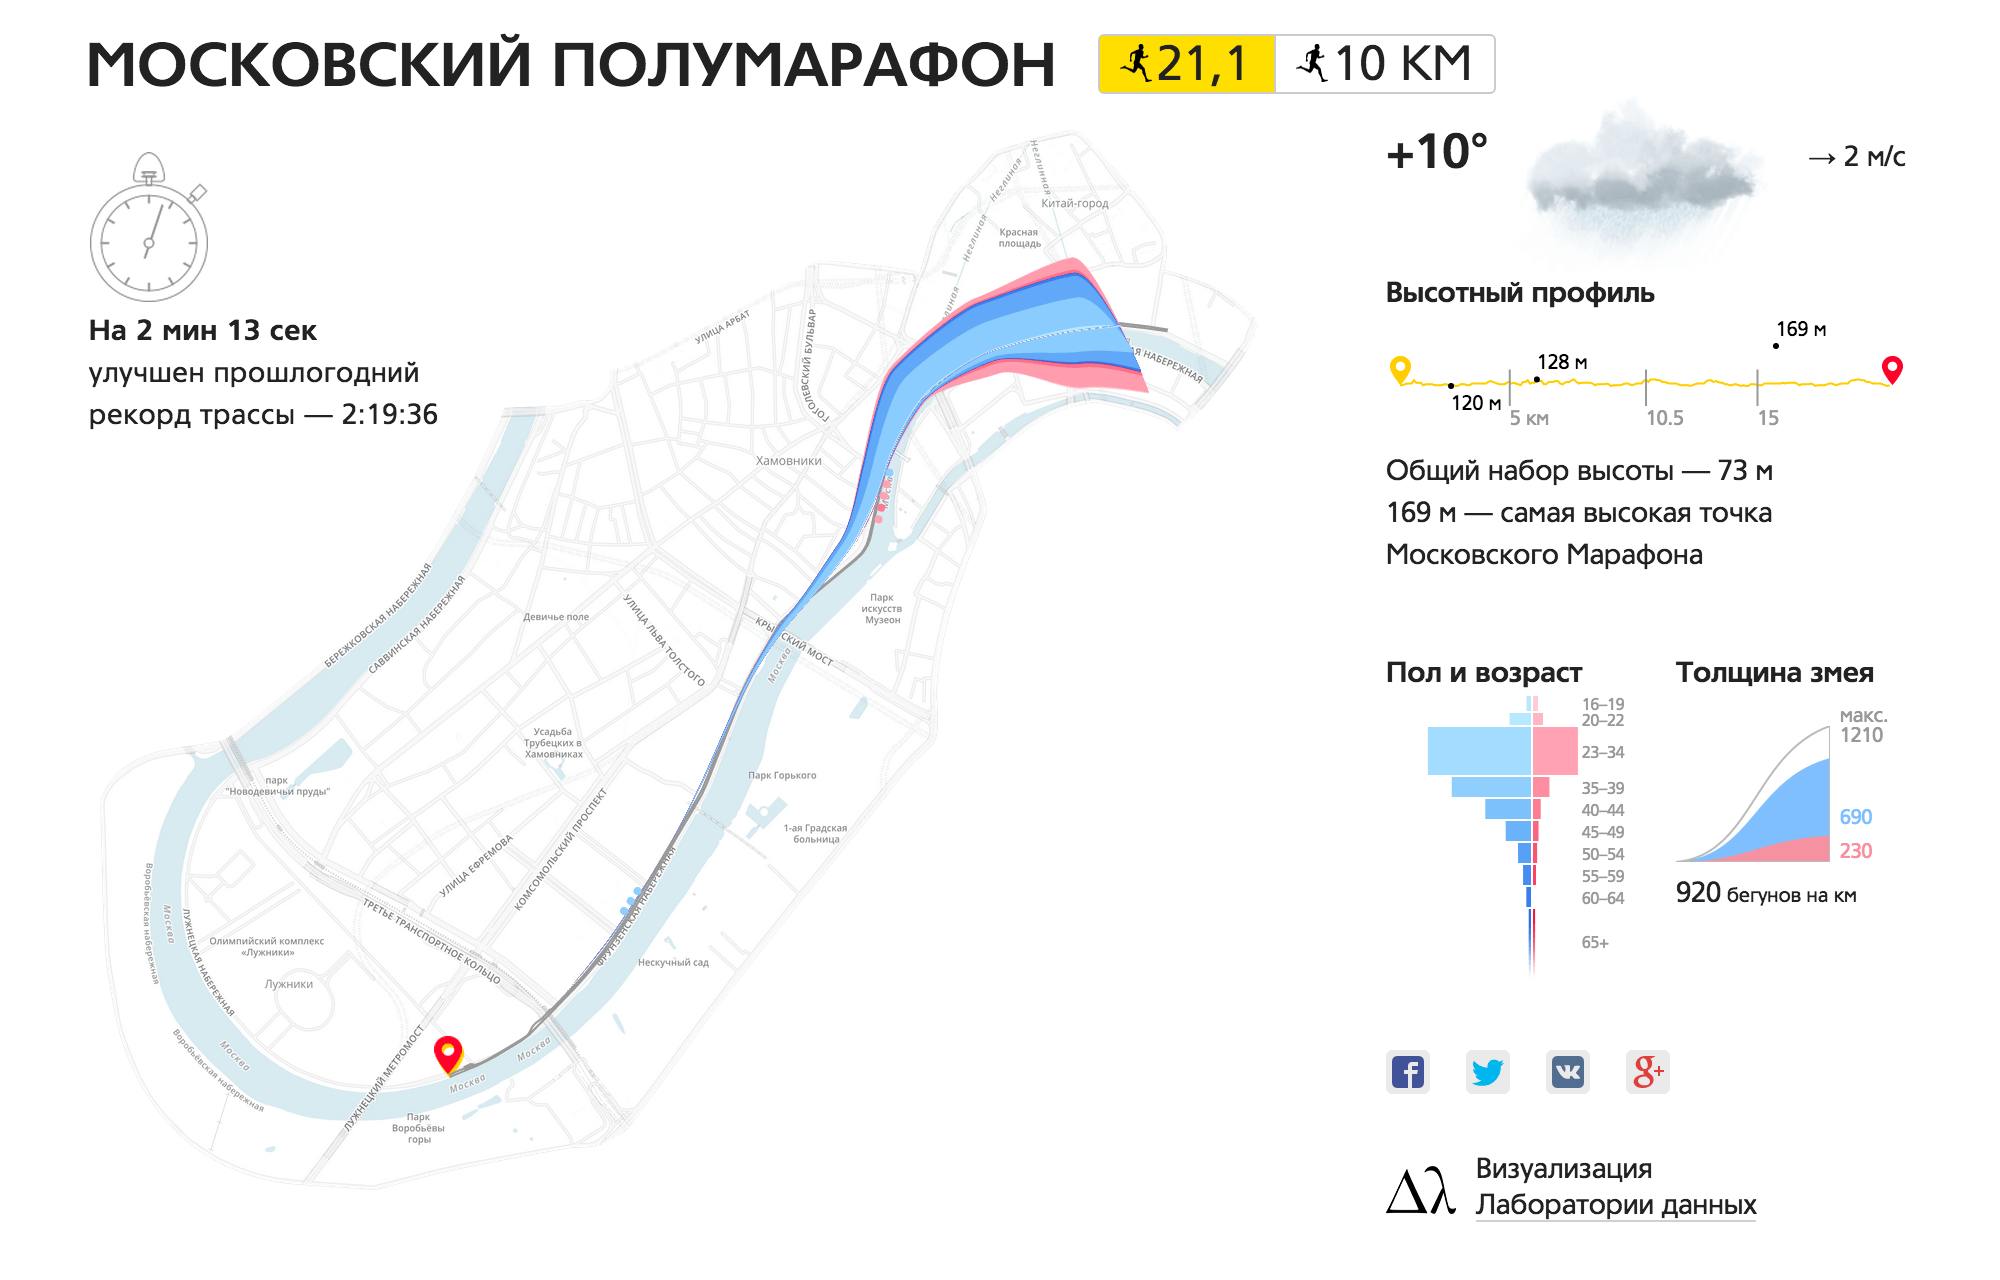
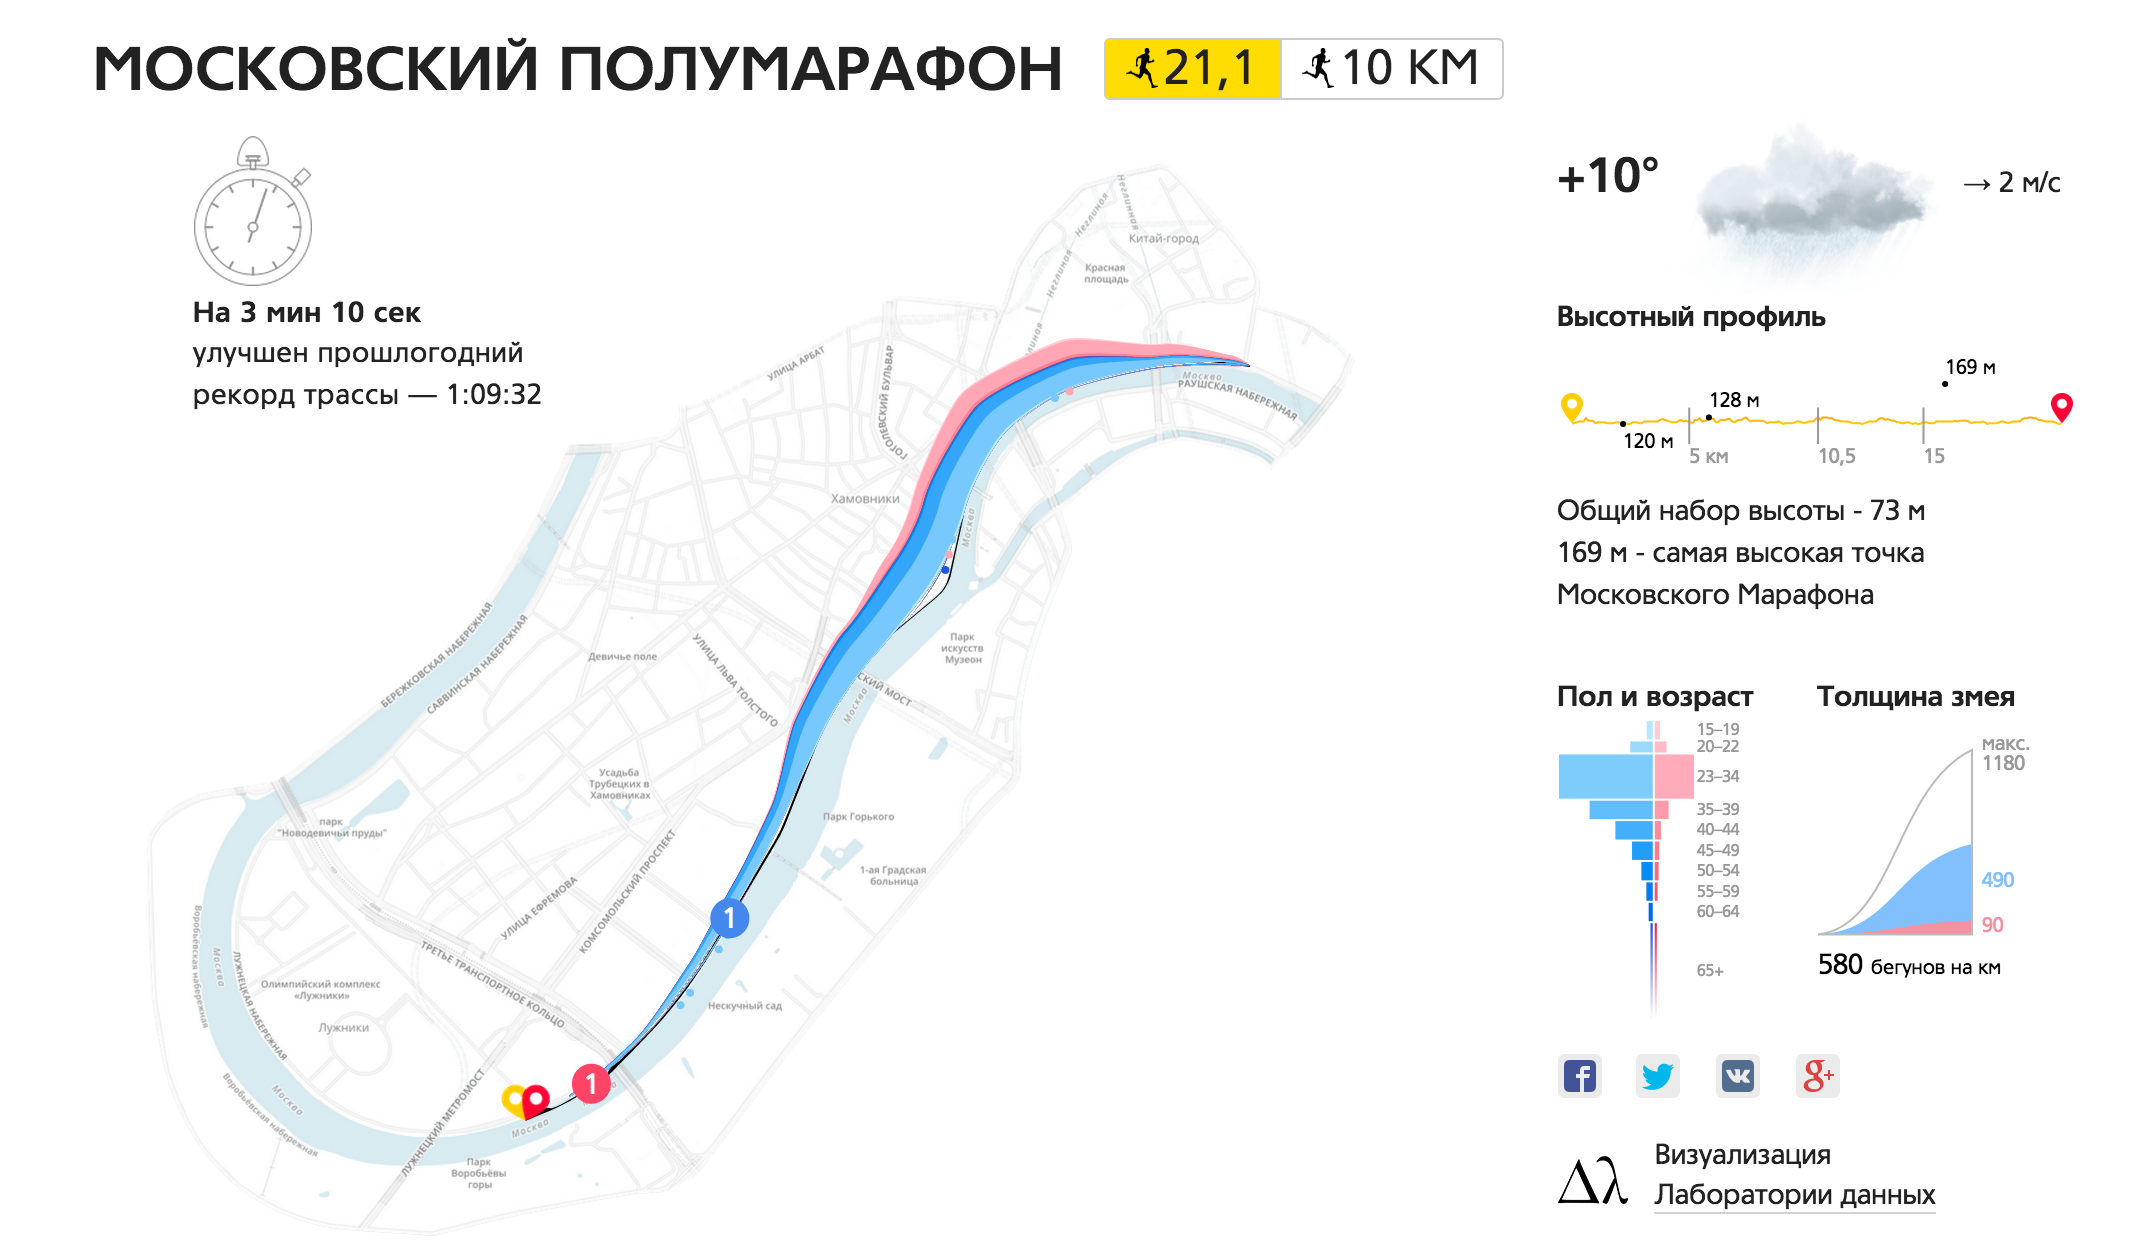
stick snake to track turn

diff --git a/src/templates/directives/altitudeLegend.html b/src/templates/directives/altitudeLegend.html
@@ -38,18 +38,18 @@
         <text
             data-ng-attr-x="{{altGraph.max.x}}"
             data-ng-attr-y="{{altGraph.max.y - 5}}"
-            class="legend-altitude__min-max-text">{{altGraph.altitudes[altGraph.max.num]}}{{'METER' | translate}}
+            class="legend-altitude__min-max-text">{{altGraph.altitudes[altGraph.max.num]}} {{'METER' | translate}}
         </text>
         <text
             data-ng-attr-x="{{altGraph.min.x}}"
             data-ng-attr-y="{{altGraph.min.y + 12}}"
-            class="legend-altitude__min-max-text">{{altGraph.altitudes[altGraph.min.num]}}{{'METER' | translate}}
+            class="legend-altitude__min-max-text">{{altGraph.altitudes[altGraph.min.num]}} {{'METER' | translate}}
         </text>
         <text
             data-ng-if="altGraph.customMaxAlt"
             data-ng-attr-x="{{altGraph.customMaxAlt.x}}"
             data-ng-attr-y="{{altGraph.customMaxAlt.y - 5}}"
-            class="legend-altitude__min-max-text">{{altGraph.customMaxAlt.alt}}{{'METER' | translate}}
+            class="legend-altitude__min-max-text">{{altGraph.customMaxAlt.alt}} {{'METER' | translate}}
         </text>
         <image xlink:href="img/mark-yel.png"
                data-ng-attr-x="{{(scaleX(0) - altGraph.imgSize / 2) | preventNaN }}"

diff --git a/src/js/services/mapHelper.js b/src/js/services/mapHelper.js
@@ -1,4 +1,4 @@
-angular.module('marathon').factory('mapHelper', function (track, genderColors) {
+angular.module('marathon').factory('mapHelper', function (track, genderColors, roundTo) {
     var x_axis_points = {
         p1: {
             x: 0,
@@ -222,10 +222,20 @@ angular.module('marathon').factory('mapHelper', function (track, genderColors) {
         }));
     };
 
+    var customPieces = {
+        '21': 6270,
+        '10': 5050
+    };
+
     var getSteps = function (step, px_distance) {
         var pieces = d3.range(0, px_distance, step);
         pieces.push(px_distance);
-
+        var trackLength = track.getTrackLength();
+        var customPiece = customPieces[Math.round(trackLength / 1000)] / trackLength * track.getTotalLength();
+        pieces.push(customPiece, customPiece);
+        pieces.sort(function (a, b) {
+            return a - b
+        });
         var steps = [{p: 0, l: 0}].concat(pieces.map(function (piece) {
             return {
                 p: piece,

diff --git a/src/js/services/translationRu.js b/src/js/services/translationRu.js
@@ -5,7 +5,7 @@ angular.module('marathon').constant('translationRu', {
     ALTITUDE_TITLE: 'Высотный профиль',
     GENDER_AGE_TITLE: 'Пол и возраст',
     SNAKE_WIDTH_TITLE: 'Толщина змея',
-    ALTITUDE_TEXT: 'Общий набор высоты - 73м<br>169м - самая высокая точка Московского Марафона',
+    ALTITUDE_TEXT: 'Общий набор высоты - 73&nbsp;м<br>169&nbsp;м - самая высокая точка Московского Марафона',
     RESULTS: 'Результаты',
     WINNERS: 'призёров',
     WOMEN: 'женщин',

diff --git a/src/js/services/translationEn.js b/src/js/services/translationEn.js
@@ -5,7 +5,7 @@ angular.module('marathon').constant('translationEn', {
         ALTITUDE_TITLE: 'Altitude',
         GENDER_AGE_TITLE: 'Age and sex',
         SNAKE_WIDTH_TITLE: 'Snake width',
-        ALTITUDE_TEXT: 'Total climb: 73m<br>Highest point of Moscow Marathon: 169m',
+        ALTITUDE_TEXT: 'Total climb: 73&nbsp;m<br>Highest point of Moscow Marathon: 169&nbsp;m',
         RESULTS: 'Results',
         WINNERS: 'winners',
         WOMEN: 'women',

diff --git a/src/js/directives/trackSwitch.js b/src/js/directives/trackSwitch.js
@@ -4,7 +4,7 @@ angular.module('marathon').directive('trackSwitch', function ($timeout, $rootSco
         templateUrl: 'directives/trackSwitch.html',
         replace: true,
         link: function link($scope) {
-            var tracks = ['21km', '10km', '21km'];
+            var tracks = ['21km'];
             function nextTrack() {
                 $scope.currentTrackName = tracks.shift();
             }
